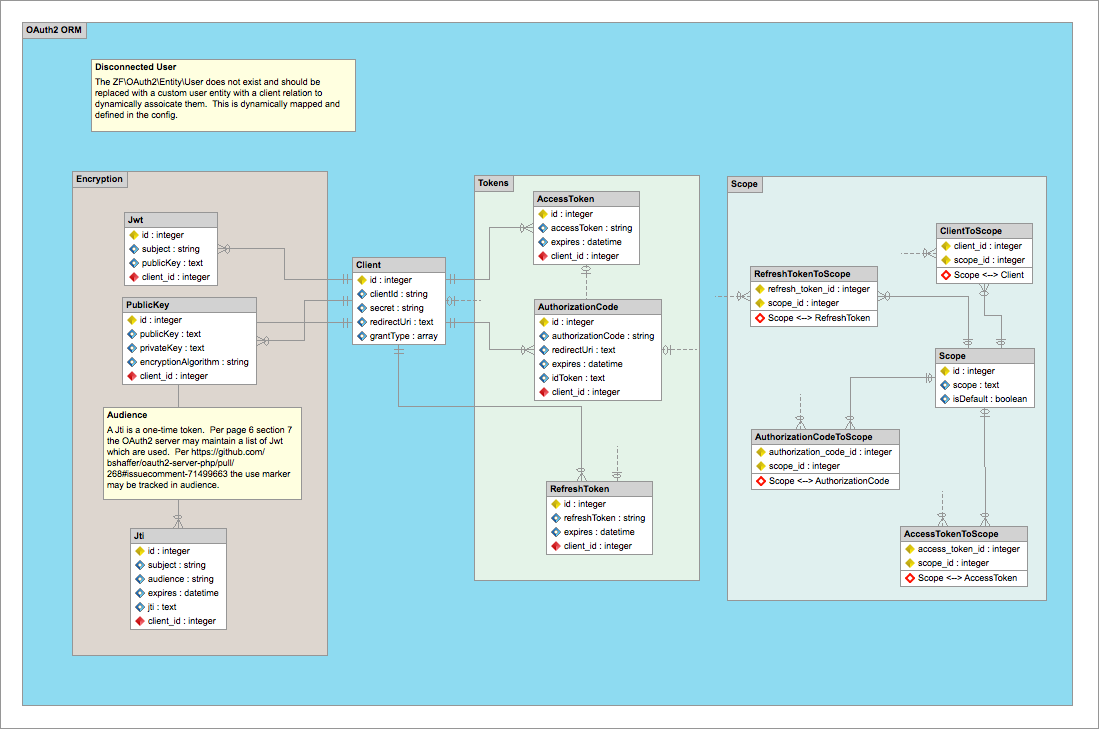
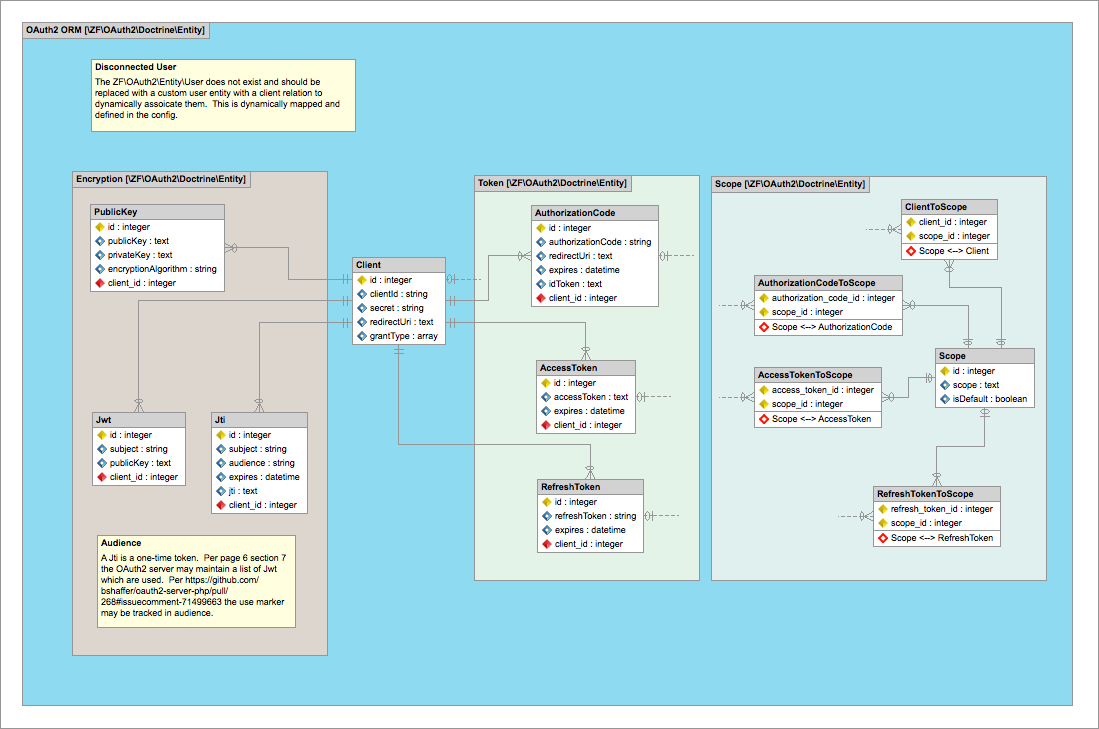
Change access_token to text to support JWT

diff --git a/test/asset/orm-autoload/oauth2.doctrine-orm.global.php b/test/asset/orm-autoload/oauth2.doctrine-orm.global.php
@@ -105,7 +105,7 @@ return array(
                         'access_token' => array(
                             'type' => 'field',
                             'name' => 'accessToken',
-                            'datatype' => 'string',
+                            'datatype' => 'text',
                         ),
                         'expires' => array(
                             'type' => 'field',

diff --git a/README.md b/README.md
@@ -3,7 +3,7 @@ OAuth2 Doctrine Adapter for Apigility
 
 [![Build Status](https://travis-ci.org/TomHAnderson/zf-oauth2-doctrine.svg?branch=0.1.0)](https://travis-ci.org/TomHAnderson/zf-oauth2-doctrine)
 [![Coverage Status](https://coveralls.io/repos/TomHAnderson/zf-oauth2-doctrine/badge.svg)](https://coveralls.io/r/TomHAnderson/zf-oauth2-doctrine)
-[![Total Downloads](https://poser.pugx.org/zfcampus/zf-oauth2-doctrine/downloads)](https://packagist.org/packages/zfcampus/zf-oauth2-doctrine) 
+[![Total Downloads](https://poser.pugx.org/zfcampus/zf-oauth2-doctrine/downloads)](https://packagist.org/packages/zfcampus/zf-oauth2-doctrine)
 
 
 About
@@ -19,7 +19,7 @@ Installation
 Installation of this module uses composer. For composer documentation, please refer to [getcomposer.org](http://getcomposer.org/).
 
 ```sh
-$ php composer.phar require zfcampus/zf-oauth2-doctrine "~0.2"
+$ php composer.phar require zfcampus/zf-oauth2-doctrine "~0.3"
 ```
 
 Add this module to your application's configuration:
